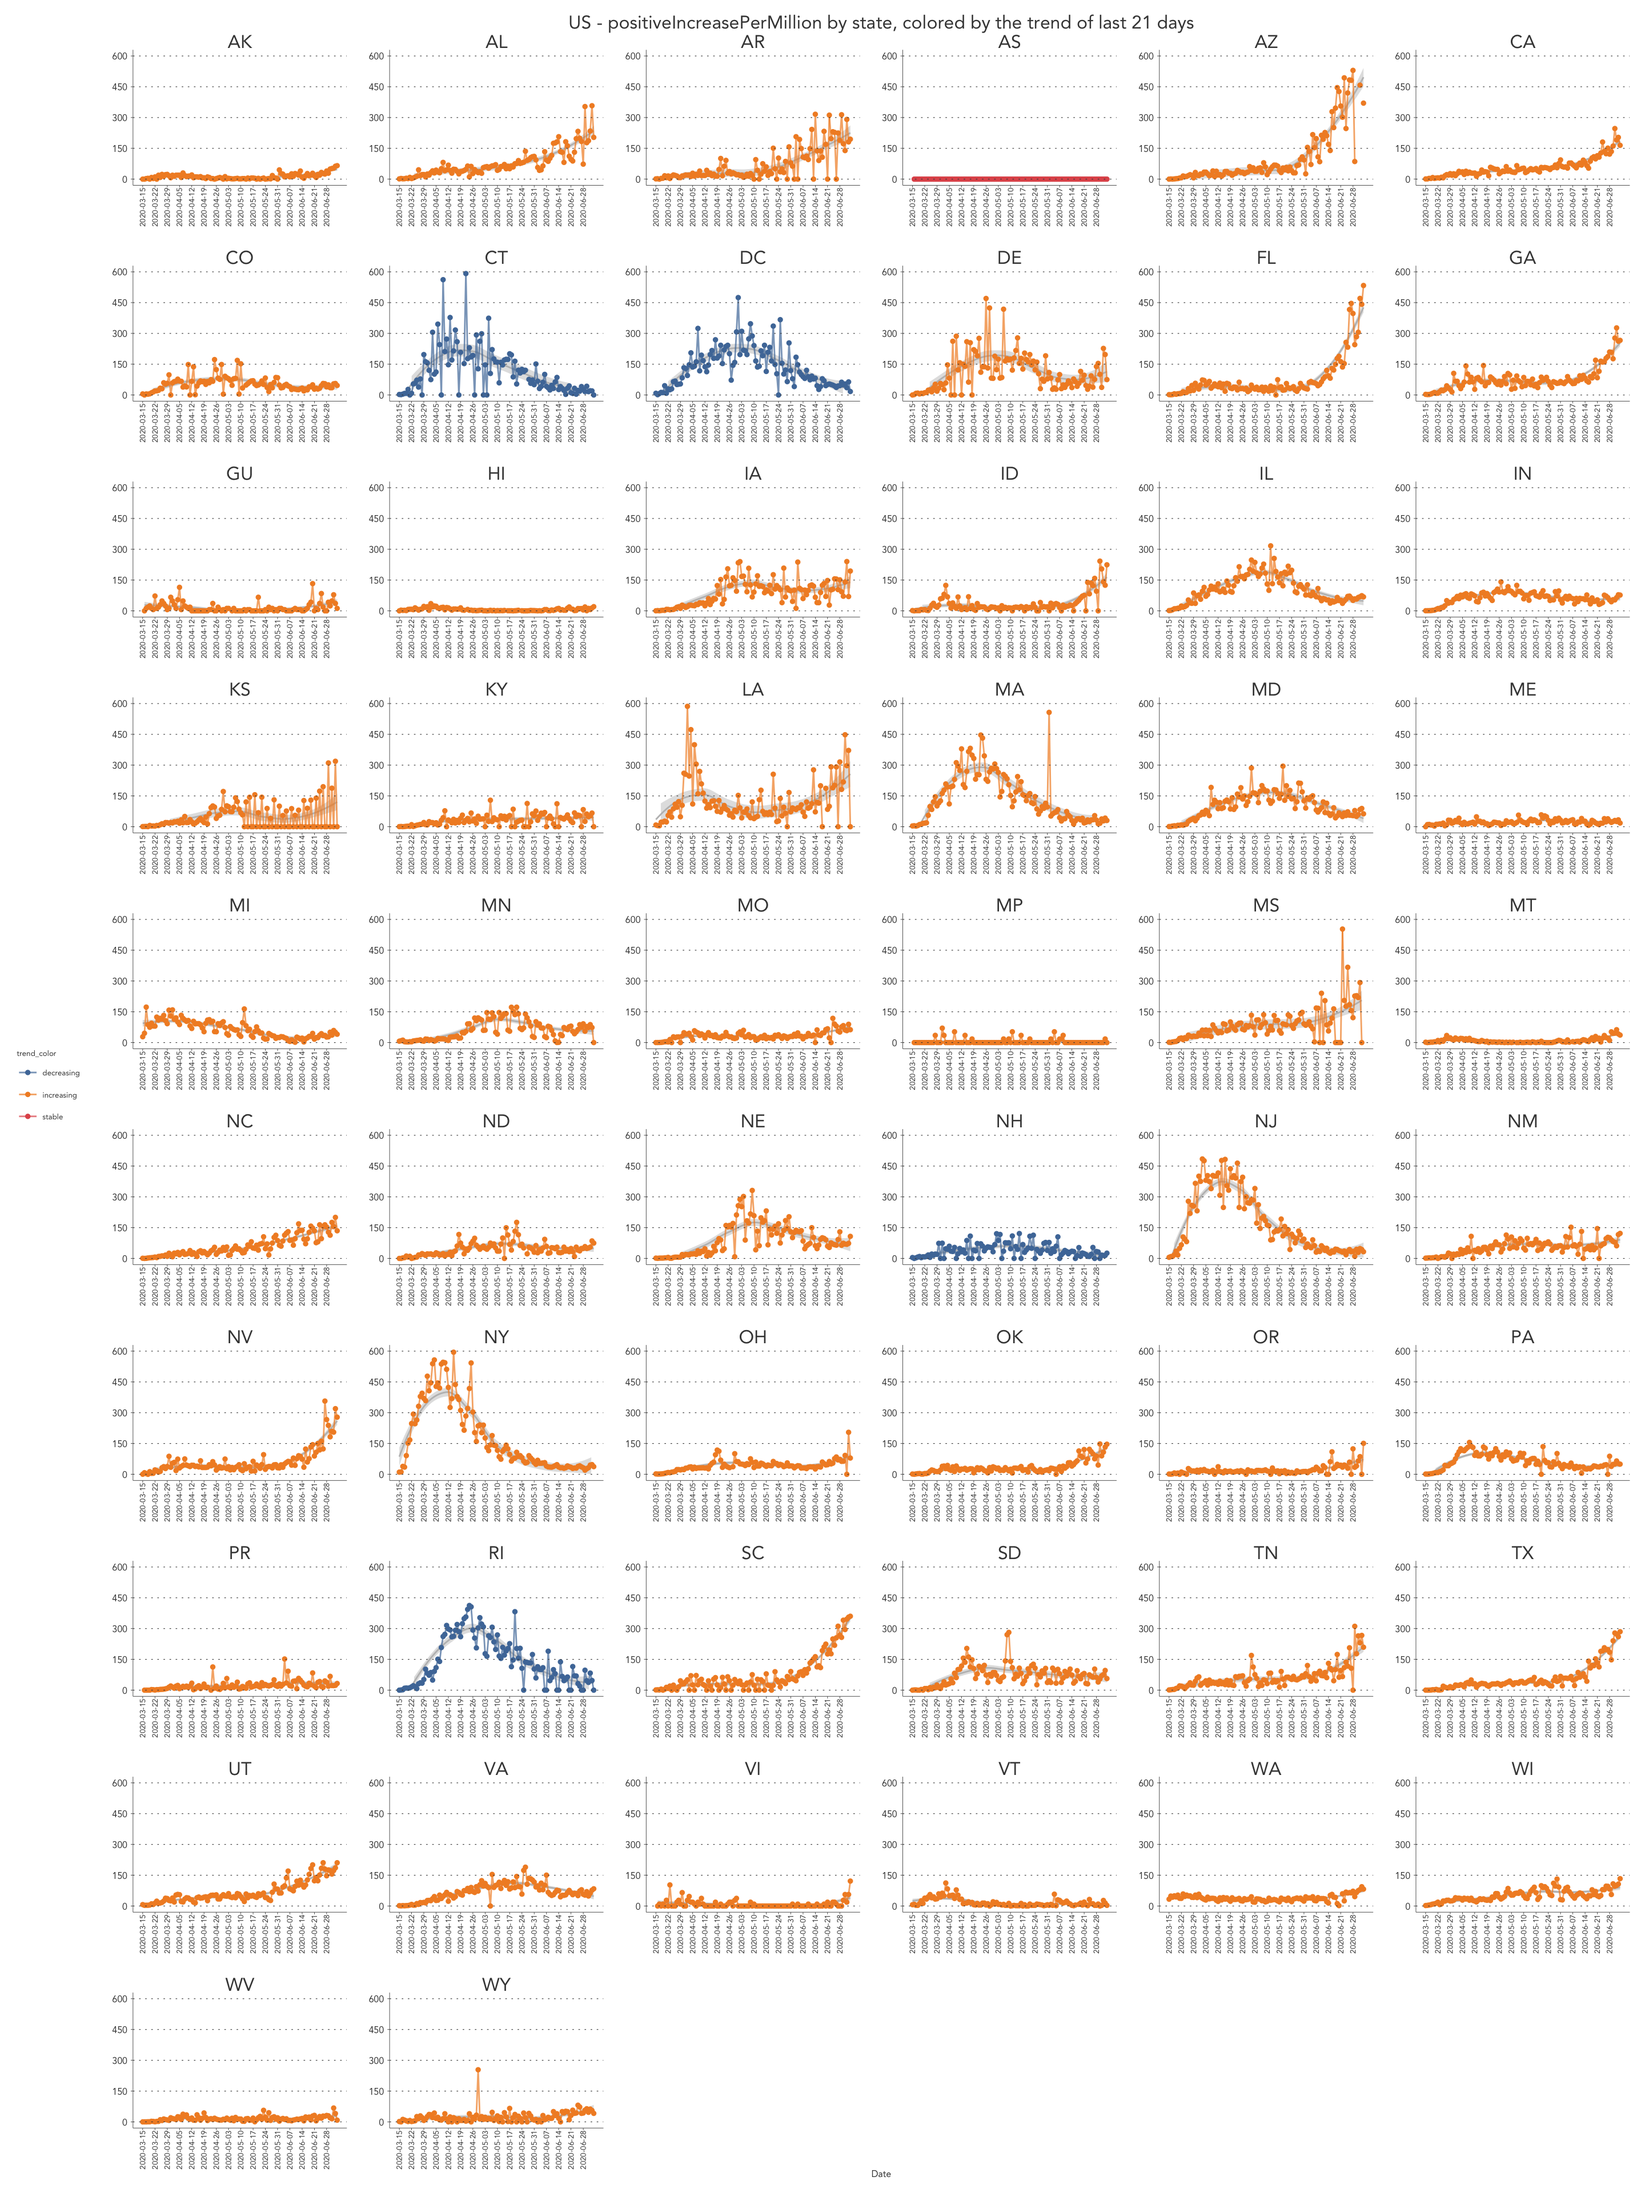
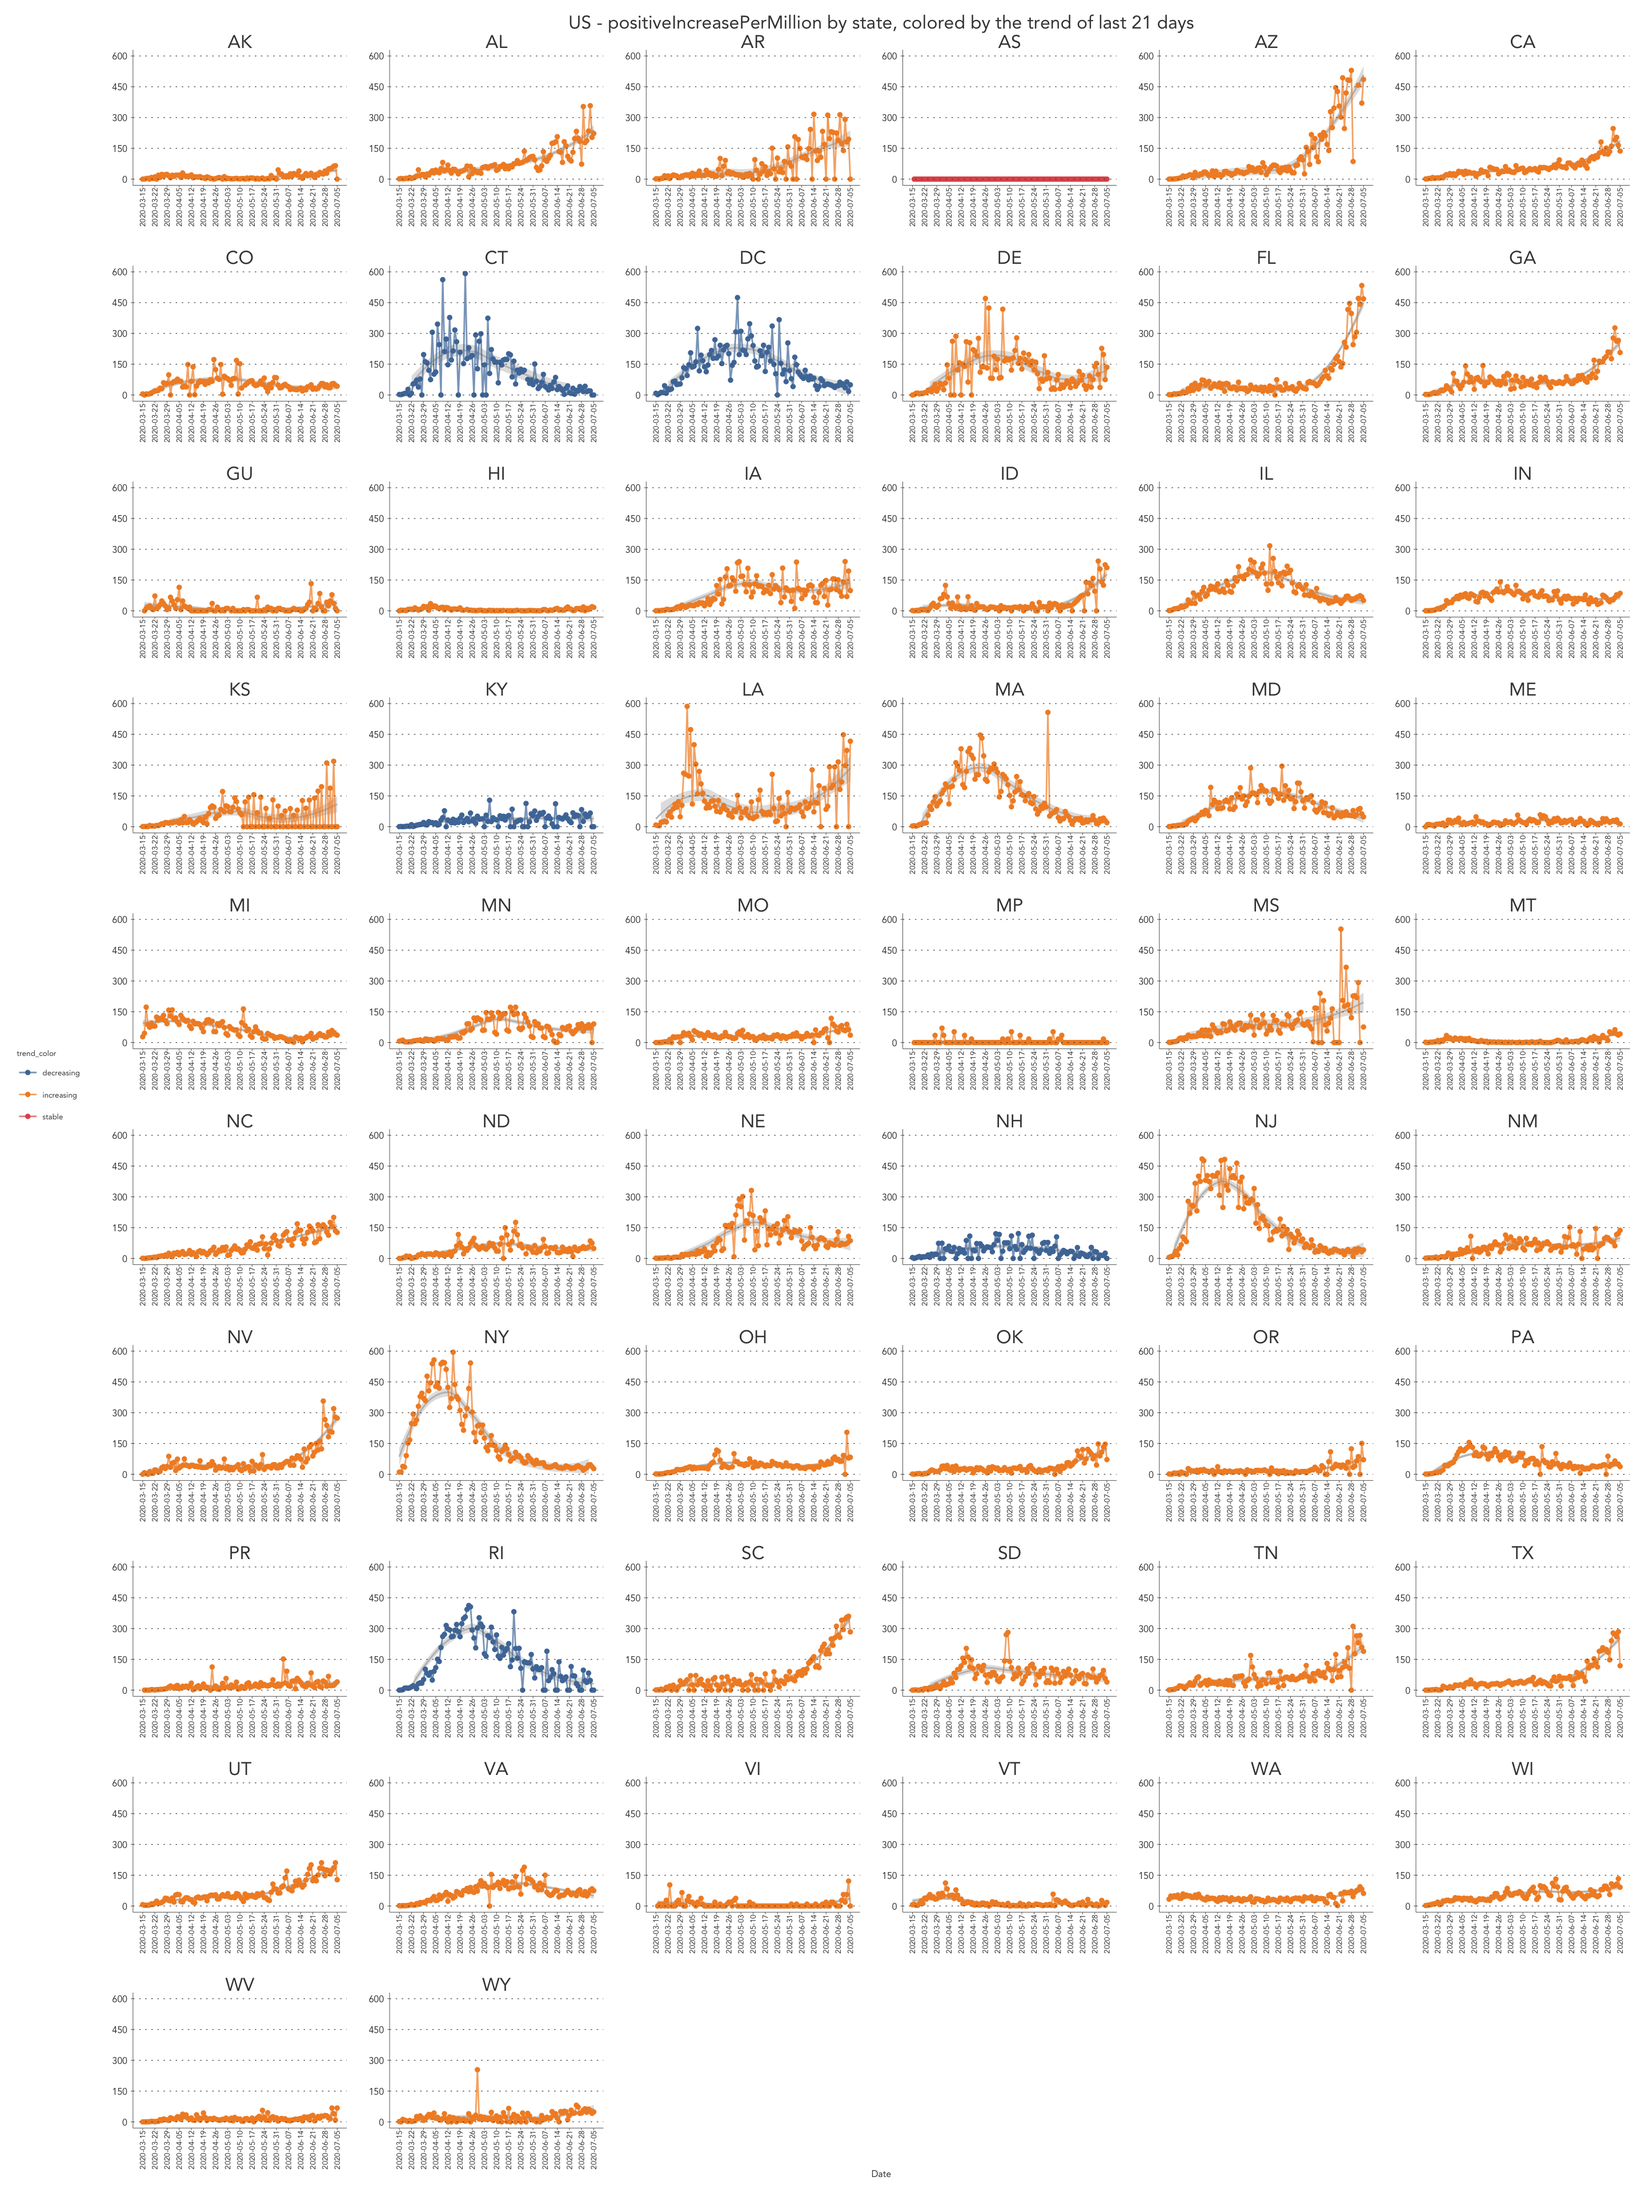
0705 up

diff --git a/covid19-vis.html b/covid19-vis.html
@@ -305,7 +305,7 @@ population
 <tbody>
 <tr>
 <td style="text-align:left;">
-2020-07-04
+2020-07-05
 </td>
 <td style="text-align:left;">
 AK
@@ -377,31 +377,31 @@ A
 2
 </td>
 <td style="text-align:right;">
-48
+0
 </td>
 <td style="text-align:right;">
-2476
-</td>
-<td style="text-align:right;">
-122732
+0
 </td>
 <td style="text-align:right;">
 122732
 </td>
 <td style="text-align:right;">
-2524
+122732
+</td>
+<td style="text-align:right;">
+0
 </td>
 <td style="text-align:right;">
 122732
 </td>
 <td style="text-align:right;">
-1
+0
 </td>
 <td style="text-align:right;">
 0
 </td>
 <td style="text-align:left;">
-f49f147e3eef28585044609989619aa60af671cb
+60747b92beb9c600e7cb30085266b382691b2c3a
 </td>
 <td style="text-align:right;">
 0
@@ -427,25 +427,25 @@ f49f147e3eef28585044609989619aa60af671cb
 </tr>
 <tr>
 <td style="text-align:left;">
-2020-07-04
+2020-07-05
 </td>
 <td style="text-align:left;">
 AL
 </td>
 <td style="text-align:right;">
-42862
+43953
 </td>
 <td style="text-align:right;">
-399226
+405933
 </td>
 <td style="text-align:right;">
 0
 </td>
 <td style="text-align:right;">
-800
+885
 </td>
 <td style="text-align:right;">
-2906
+2909
 </td>
 <td style="text-align:right;">
 0
@@ -466,22 +466,22 @@ AL
 B
 </td>
 <td style="text-align:left;">
-7/4/2020 11:00
+7/5/2020 11:00
 </td>
 <td style="text-align:left;">
-2020-07-04T11:00:00Z
+2020-07-05T11:00:00Z
 </td>
 <td style="text-align:left;">
-07/04 07:00
+07/05 07:00
 </td>
 <td style="text-align:right;">
 1007
 </td>
 <td style="text-align:right;">
-2906
+2909
 </td>
 <td style="text-align:left;">
-2020-07-04T11:00:00Z
+2020-07-05T11:00:00Z
 </td>
 <td style="text-align:right;">
 0
@@ -493,37 +493,37 @@ B
 0
 </td>
 <td style="text-align:right;">
-42359
+43450
 </td>
 <td style="text-align:right;">
 1
 </td>
 <td style="text-align:right;">
-997
+1091
 </td>
 <td style="text-align:right;">
-10460
+6707
 </td>
 <td style="text-align:right;">
-442088
+449886
 </td>
 <td style="text-align:right;">
-442088
+449886
 </td>
 <td style="text-align:right;">
-11457
+7798
 </td>
 <td style="text-align:right;">
-442088
+449886
 </td>
 <td style="text-align:right;">
-1
+0
 </td>
 <td style="text-align:right;">
-23
+3
 </td>
 <td style="text-align:left;">
-0b3b0fdd152052cf6cf10fec8078b8911df53b19
+261d349a43f69648cc120a21229dcccb34d1f9e2
 </td>
 <td style="text-align:right;">
 0
@@ -549,7 +549,7 @@ B
 </tr>
 <tr>
 <td style="text-align:left;">
-2020-07-04
+2020-07-05
 </td>
 <td style="text-align:left;">
 AR
@@ -588,13 +588,13 @@ AR
 A
 </td>
 <td style="text-align:left;">
-7/4/2020 00:00
+7/5/2020 00:00
 </td>
 <td style="text-align:left;">
-2020-07-04T00:00:00Z
+2020-07-05T00:00:00Z
 </td>
 <td style="text-align:left;">
-07/03 20:00
+07/04 20:00
 </td>
 <td style="text-align:right;">
 286
@@ -603,7 +603,7 @@ A
 1536
 </td>
 <td style="text-align:left;">
-2020-07-04T00:00:00Z
+2020-07-05T00:00:00Z
 </td>
 <td style="text-align:right;">
 338893
@@ -621,31 +621,31 @@ A
 5
 </td>
 <td style="text-align:right;">
-587
+0
 </td>
 <td style="text-align:right;">
-7069
-</td>
-<td style="text-align:right;">
-338893
+0
 </td>
 <td style="text-align:right;">
 338893
 </td>
 <td style="text-align:right;">
-7656
+338893
+</td>
+<td style="text-align:right;">
+0
 </td>
 <td style="text-align:right;">
 338893
 </td>
 <td style="text-align:right;">
-5
+0
 </td>
 <td style="text-align:right;">
-19
+0
 </td>
 <td style="text-align:left;">
-2c6bbea0d826f1a38dce1eed63fb9283adc6ec2c
+e4312005a93c1c2896dd24d6c6047b2248b86b9b
 </td>
 <td style="text-align:right;">
 0
